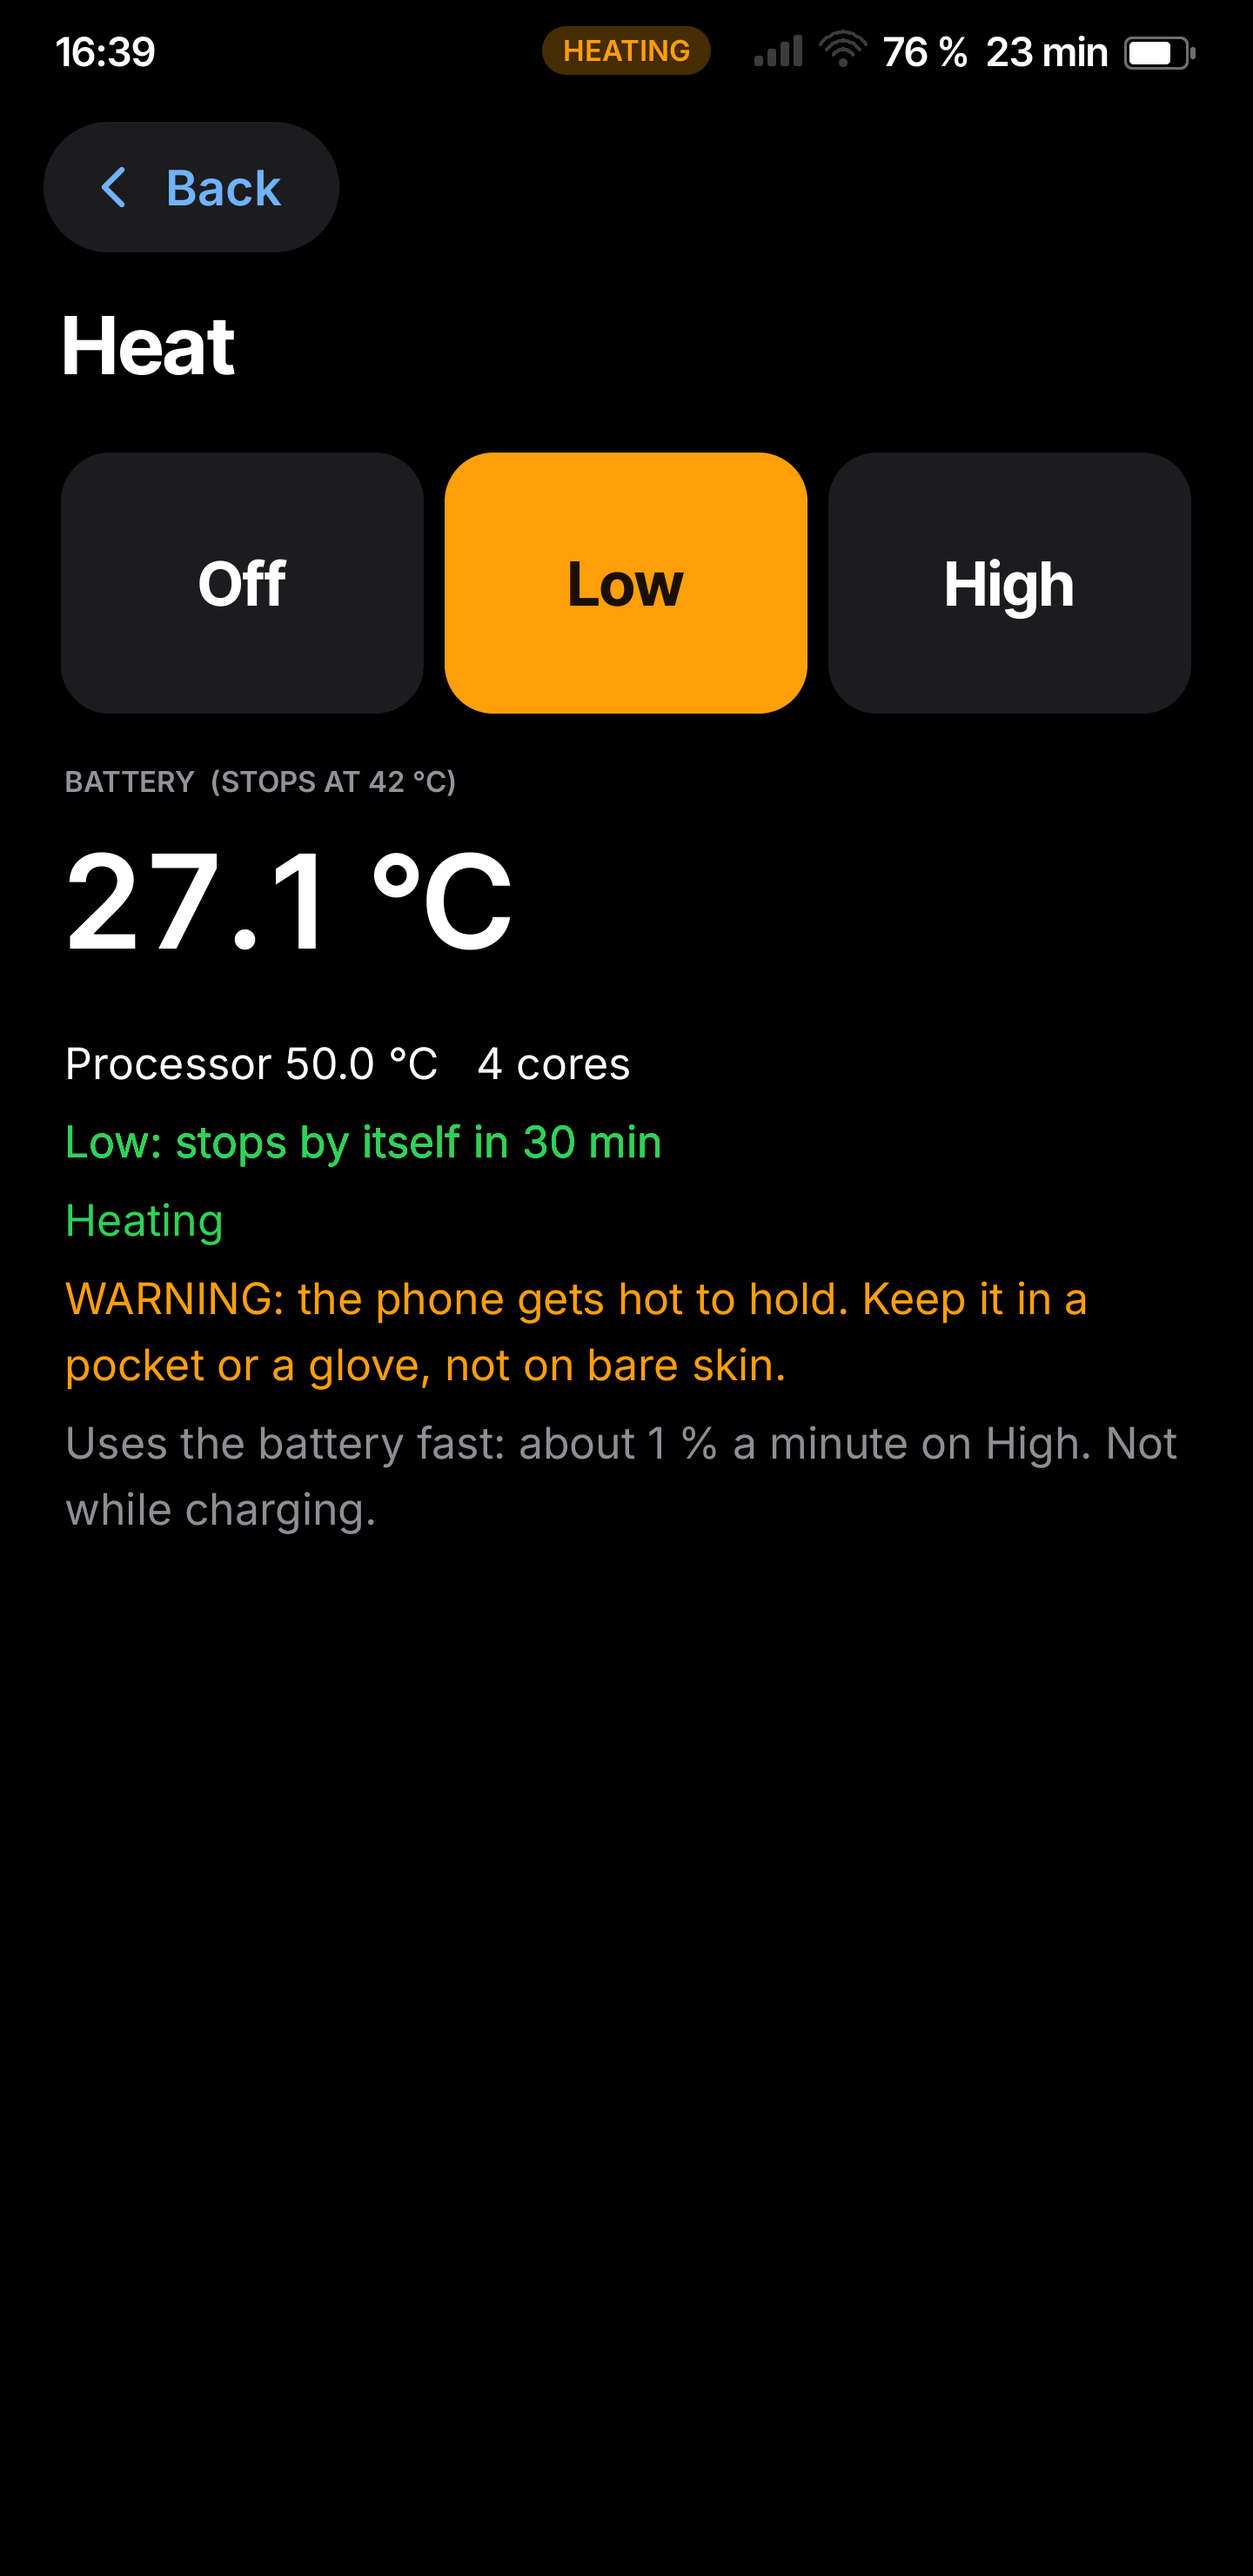
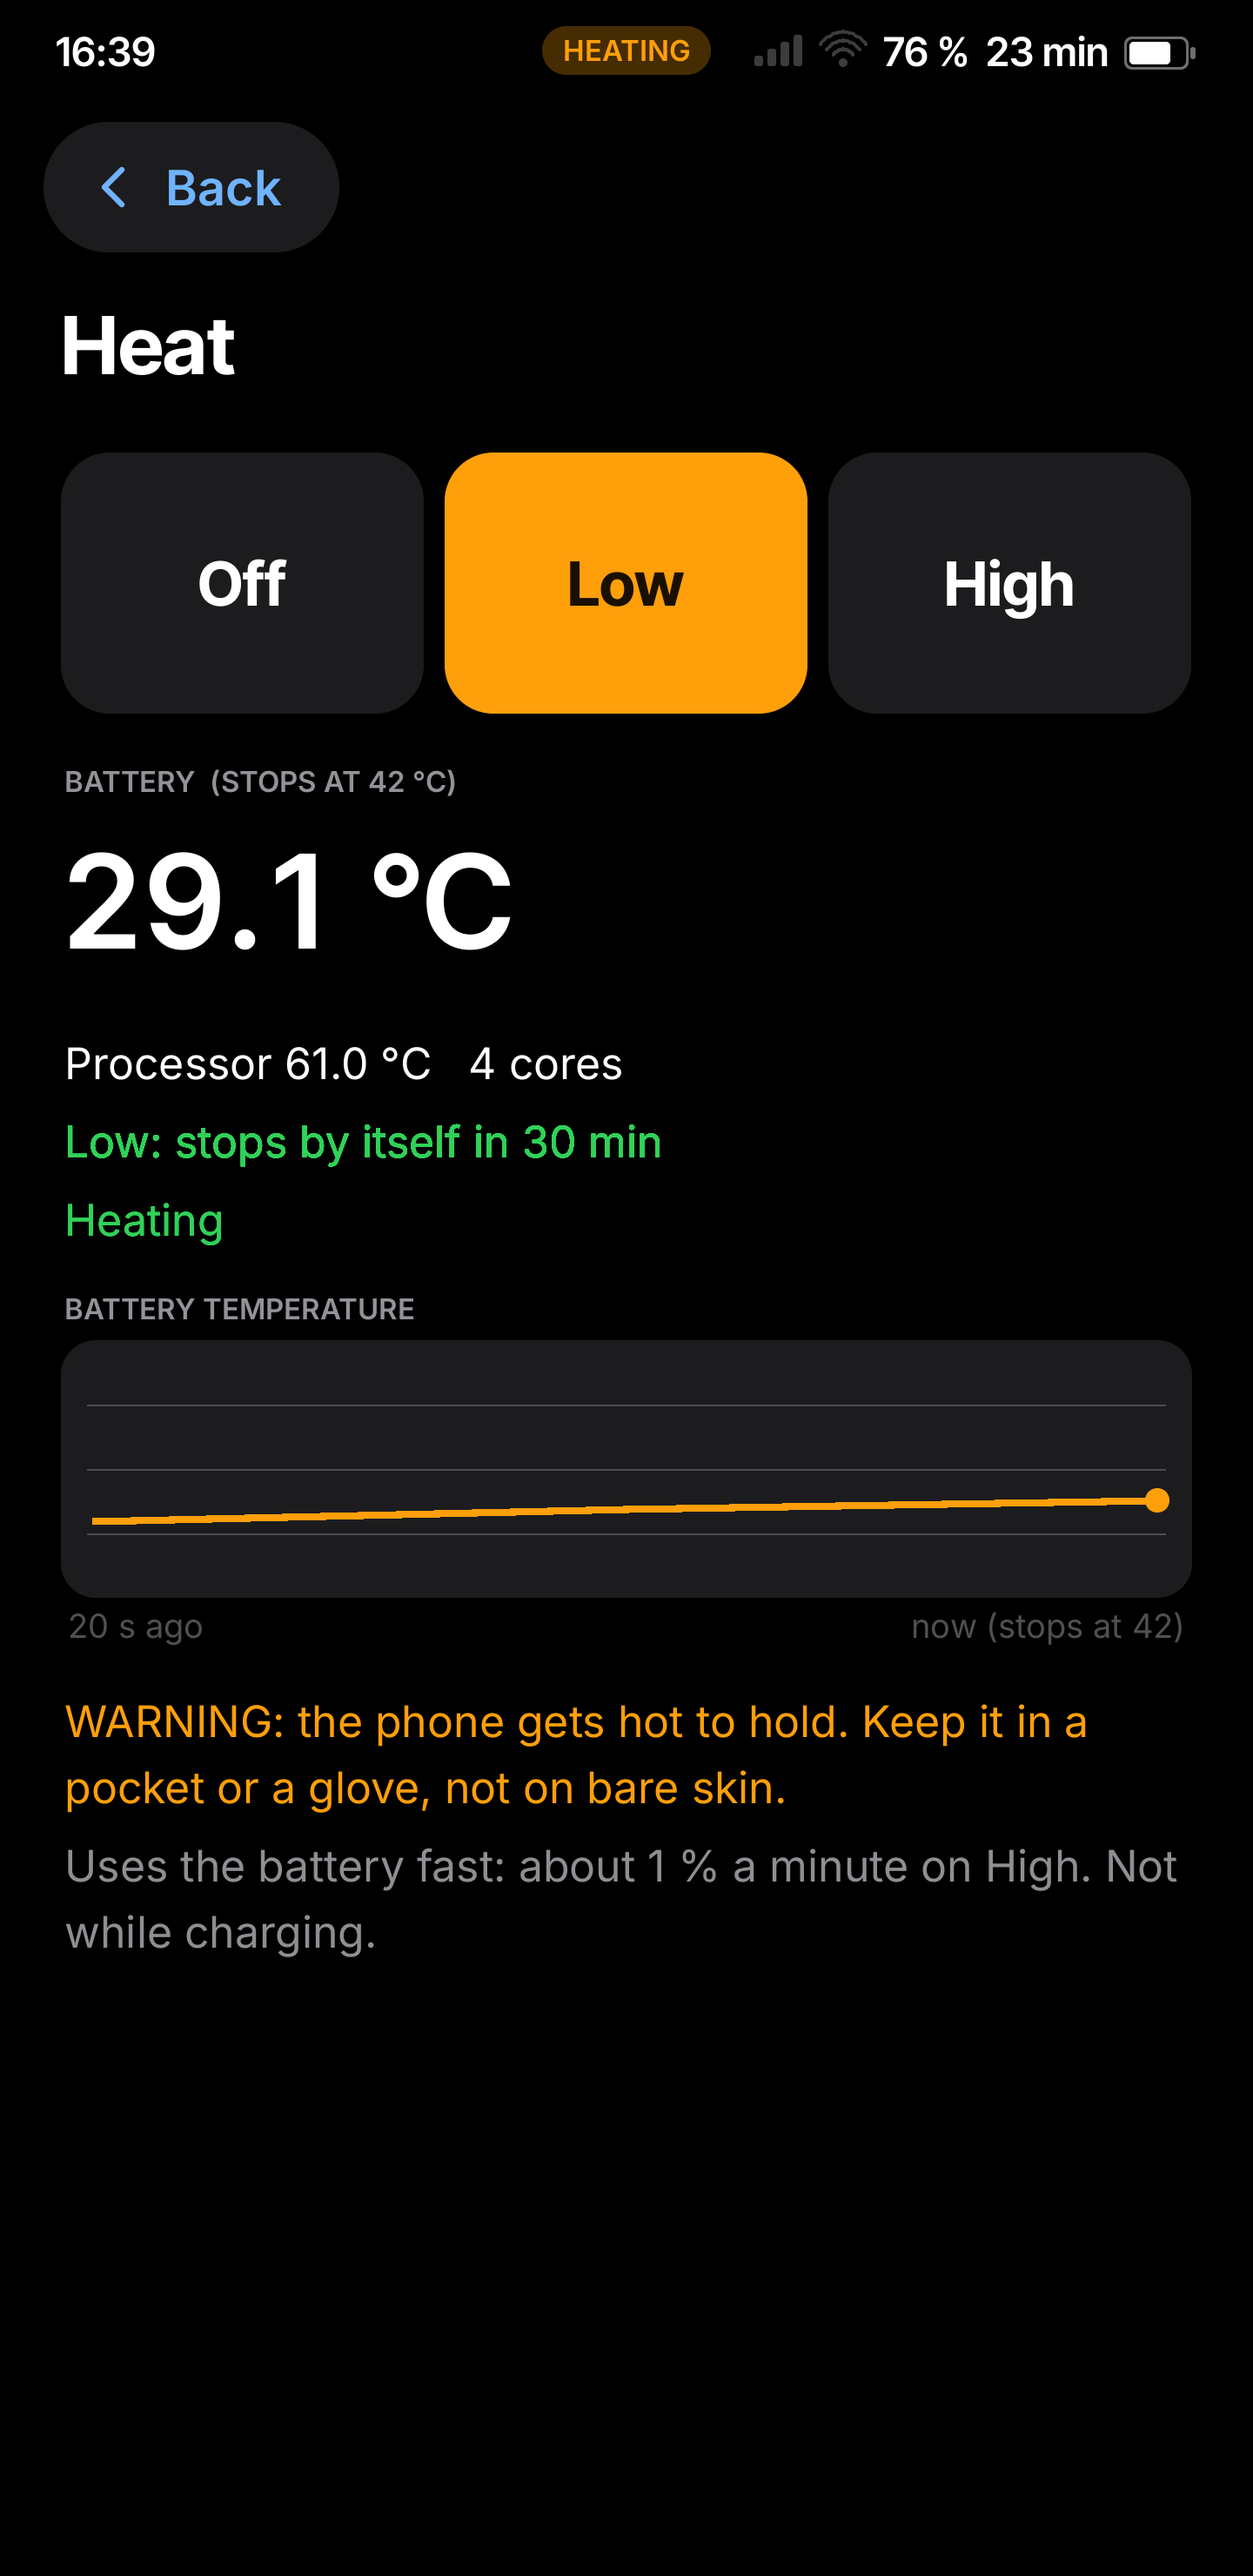
Starbite OS 0.5.7: the heating session's battery temperature as a curve
Host: 406 checks, scene heat-running with the curve, self test passed, settings, wifi and monkey tests,
soak 9/9; reproducible image sha256 9c38f0c25e0605aa350c1532ef4d1162e1f5ed6d499e4195d632a87c5295c033.

diff --git a/starbite/sbos/apps/heat.c b/starbite/sbos/apps/heat.c
@@ -10,6 +10,27 @@ SBAPP_DEFINE("heat", "Heat", SBOS_P_HEAT, 0xffff9f0aU, 201);
 #define GREY 0xff8e8e93U
 
 static int visible;
+/* 0.5.6: the battery's temperature during this heating session, every 10 s (the last 10 minutes) */
+static int16_t th[60];
+static int thn, was_on;
+static uint64_t th_t;
+
+static void sample(const struct sbos_heat *h, int on)
+{
+    uint64_t now = uptime_ms();
+    if (on && !was_on)
+        thn = 0;                            /* a new session: a new curve */
+    was_on = on;
+    if (!on || h->bat_c10 <= -1000 || (thn && now - th_t < 10000))
+        return;
+    if (thn == 60) {
+        for (int i = 1; i < 60; ++i)
+            th[i - 1] = th[i];
+        --thn;
+    }
+    th[thn++] = (int16_t)h->bat_c10;
+    th_t = now;
+}
 
 static void temp(struct fmt *f, int c10)
 {
@@ -52,6 +73,7 @@ static void show(void)
     if (h.soc_c10 <= -1000)
         h.soc_c10 = sensor_read(SENSOR_SOC_C10);
     tile(&h, on);
+    sample(&h, on);
     if (!visible)
         return;
     ui_begin();
@@ -80,6 +102,13 @@ static void show(void)
     if (h.why[0])
         ui_textline(h.why, h.state == HEAT_ST_STOPPED || h.state == HEAT_ST_REFUSED ? ORANGE :
                            h.state == HEAT_ST_PAUSED ? 0xffffd60aU : 0xff30d158U);
+    if (thn >= 2) {
+        struct fmt lr;
+        fmt_init(&lr);
+        fmt_d(&lr, (thn - 1) * 10 / 60 ? (thn - 1) * 10 / 60 : (thn - 1) * 10);
+        fmt_s(&lr, (thn - 1) * 10 / 60 ? " min ago|now (stops at 42)" : " s ago|now (stops at 42)");
+        ui_chart("BATTERY TEMPERATURE", th, thn, 200, 450, ORANGE, lr.b);
+    }
     ui_textline("WARNING: the phone gets hot to hold. Keep it in a pocket or a glove, not on bare skin.", ORANGE);
     ui_textline("Uses the battery fast: about 1 % a minute on High. Not while charging.", GREY);
     ui_end();
@@ -89,7 +118,7 @@ void app_event(const struct sbos_event *ev)
 {
     switch (ev->type) {
     case EV_APP_START:
-        timer_set(2, 60000, 1);             /* the home tile's line */
+        timer_set(2, 10000, 1);             /* the home tile's line and the temperature curve */
         show();
         break;
     case EV_APP_SHOW:

diff --git a/starbite/sbos/kern/kern.h b/starbite/sbos/kern/kern.h
@@ -8,7 +8,7 @@
 #include <stddef.h>
 #include "sbapp.h"
 
-#define SBOS_VERSION "0.5.6"
+#define SBOS_VERSION "0.5.7"
 
 /* ---- timers (timer.c, pure) ------------------------------------------------------------------ */
 /* Owners: kernel tasks 0..15, apps 16 + app index. */
